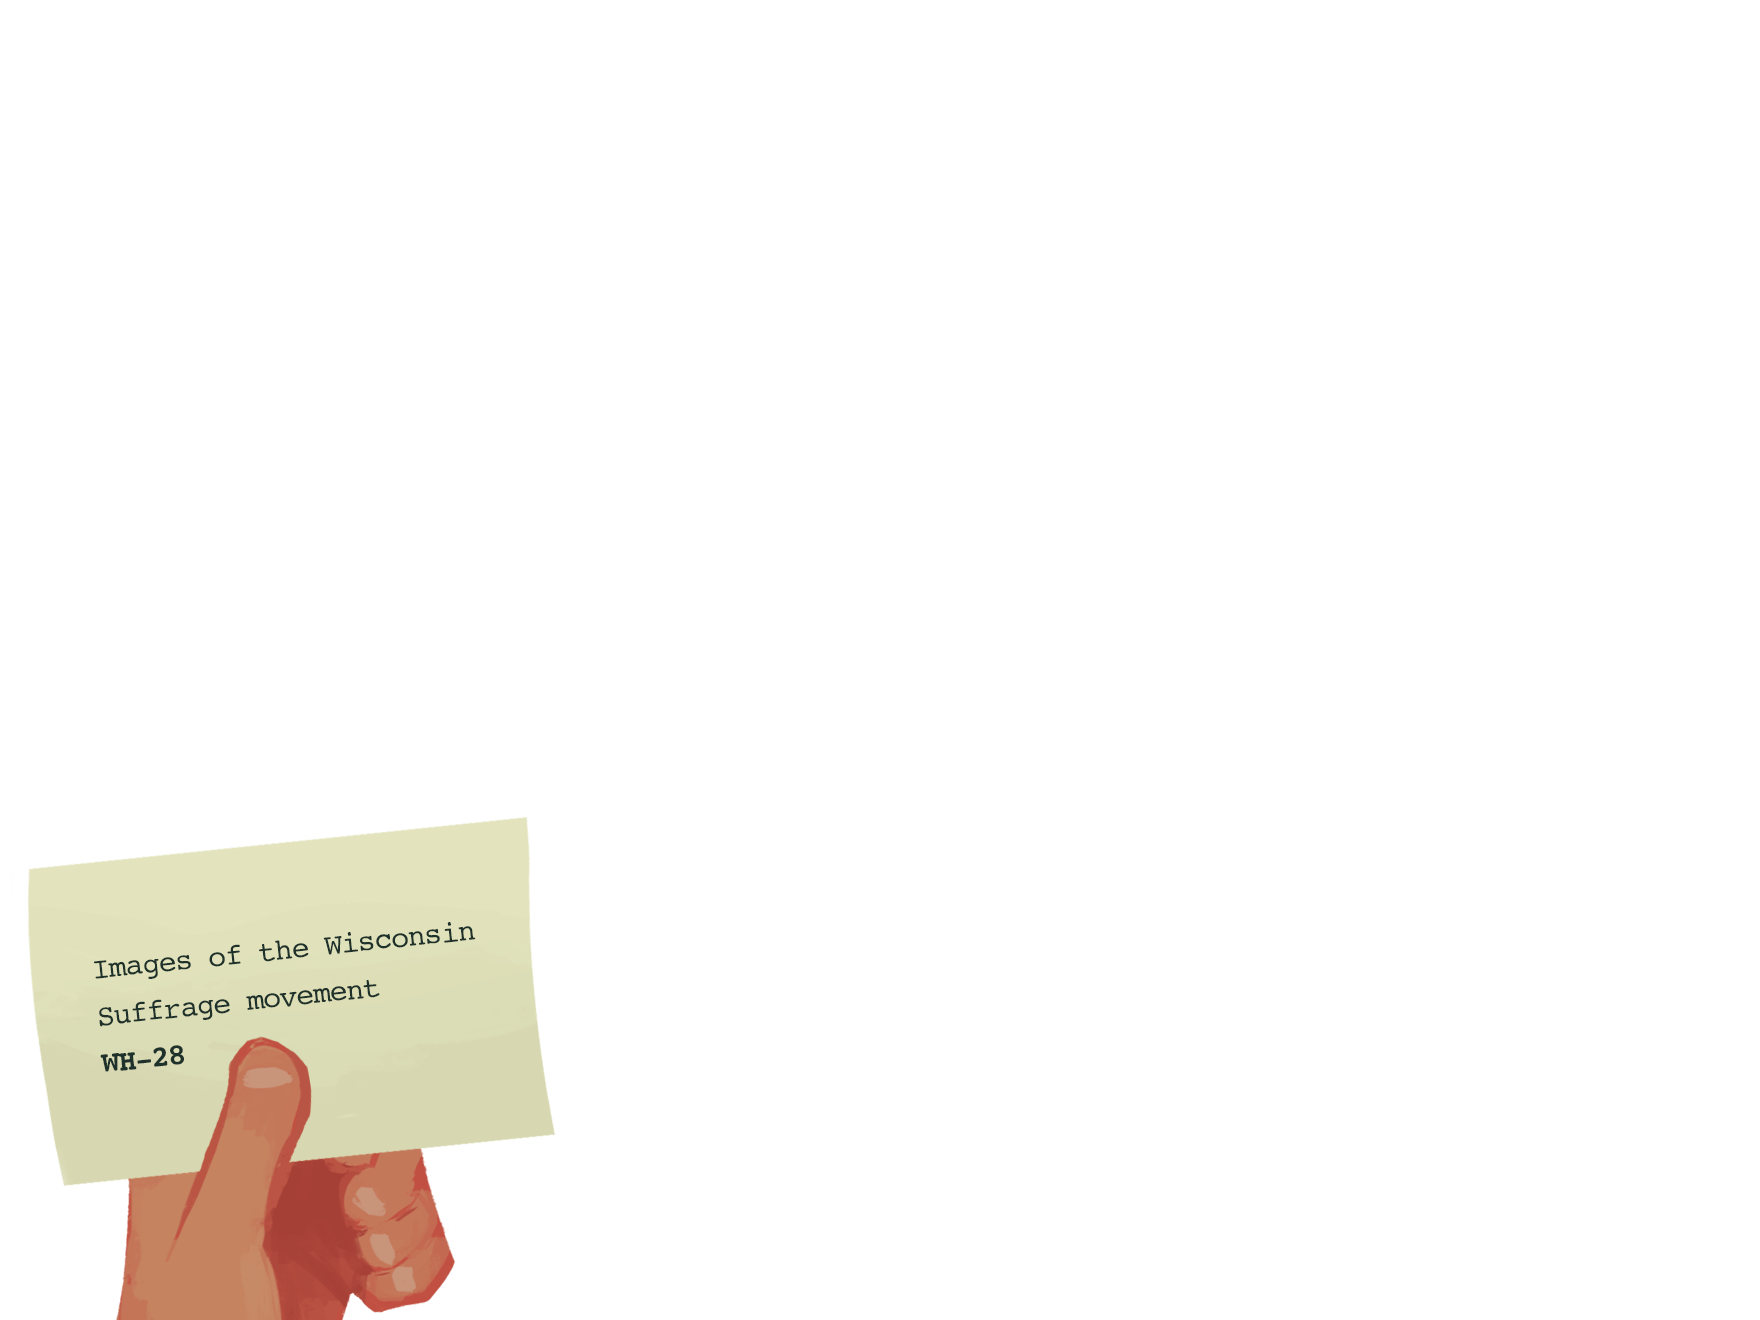
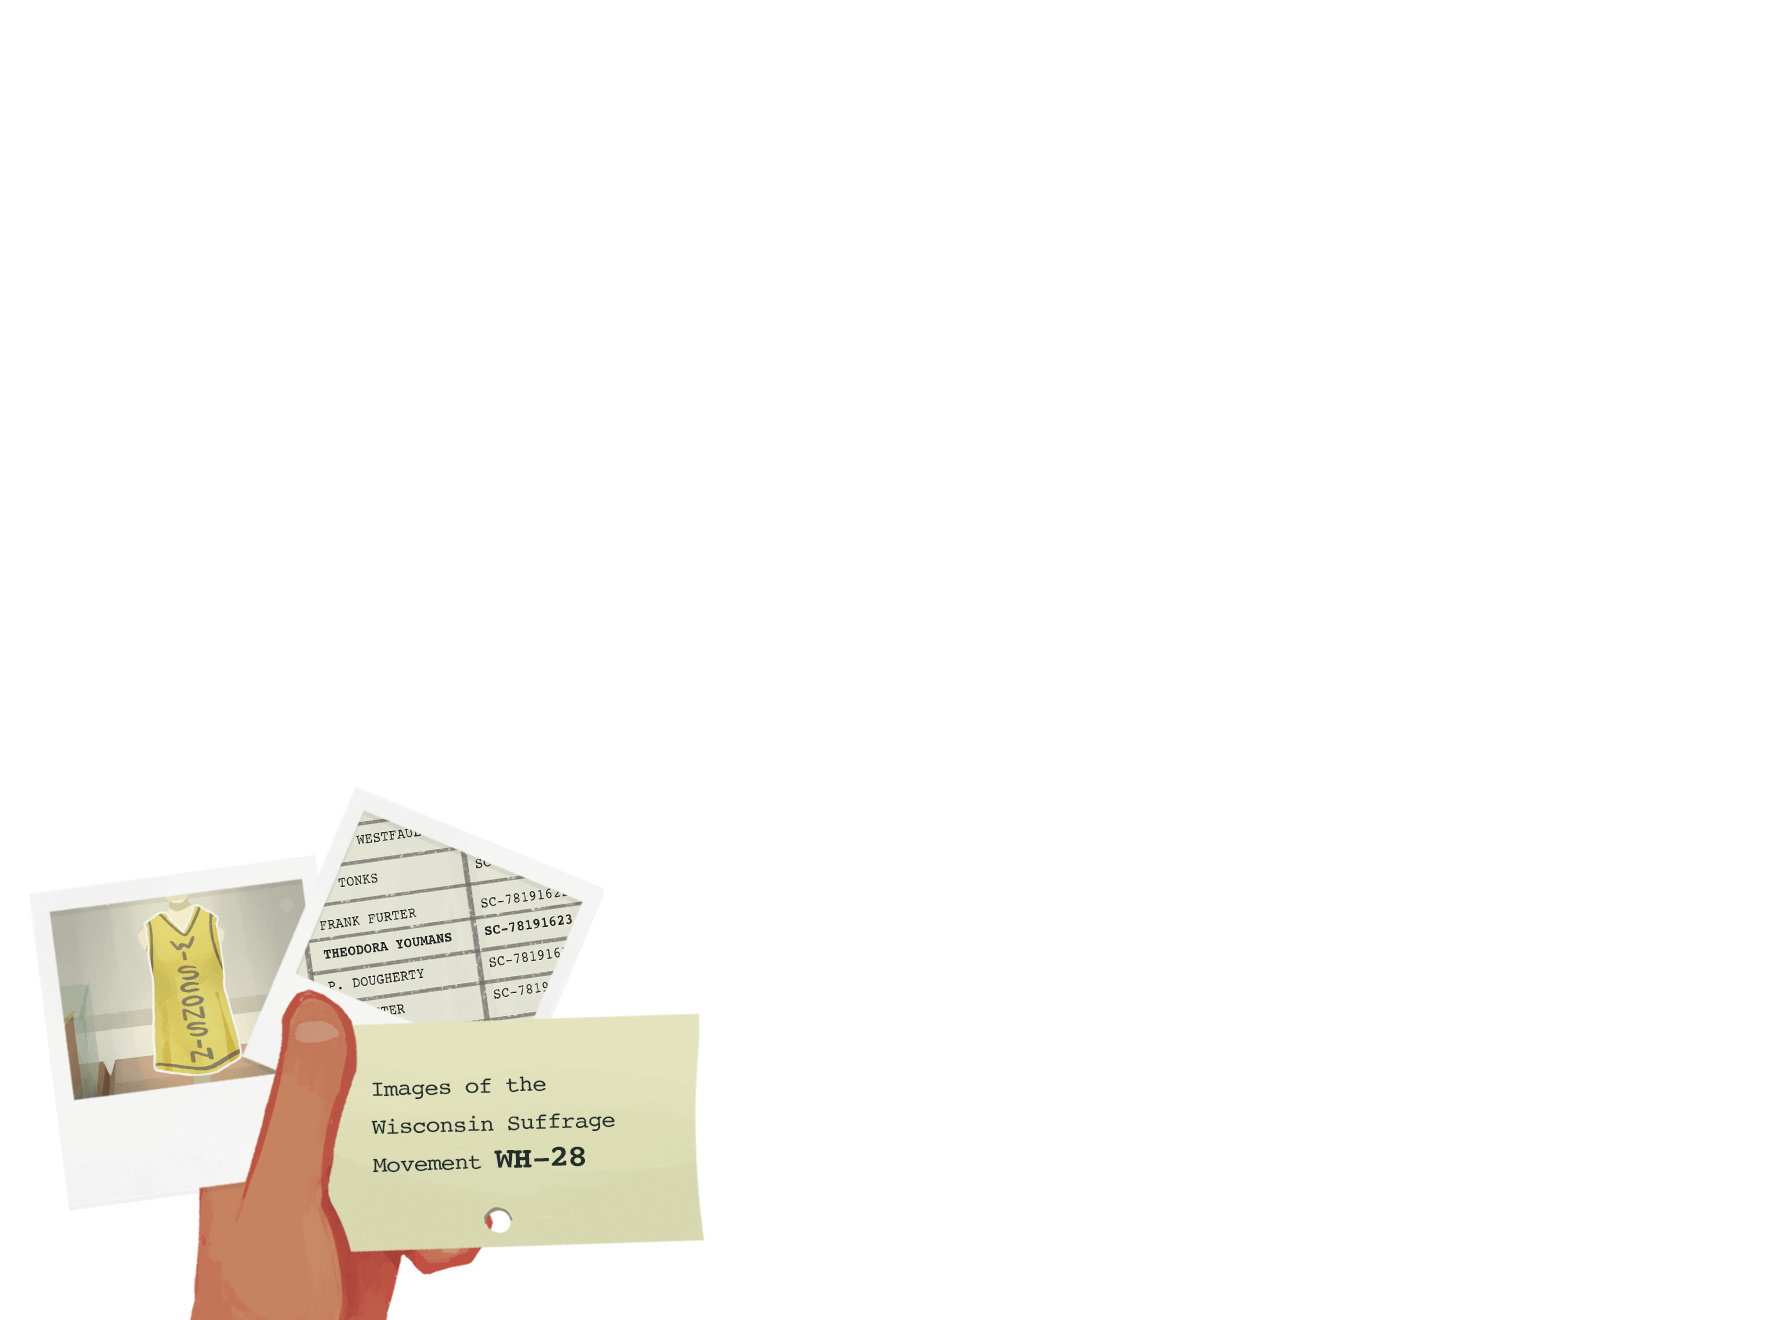
stacks clues fixed, iframe scaling fixed

Changed region(s): [[0.0, 0.6212, 0.4062, 1.0]]

diff --git a/index.html b/index.html
@@ -33,10 +33,20 @@ window.onload = function()
 <body style="width:100%; height:100%; background-color:#444444; position:absolute; top:0px; left:0px;">
 
   <div id="background" style="width:100%; height:100%; background-color:#444444; position:absolute; top:0px; left:0px;">
-    <div id="clickload" scrolling="no" style="width:880px; height:660px; display:block; margin:0px auto; overflow:hidden; border:0px; background-image:url('assets/iframe_img.jpg');"></div>
+    <div id="clickload" scrolling="no" style="background-size: cover; width:880px; height:660px; display:block; margin:0px auto; overflow:hidden; border:0px; background-image:url('assets/iframe_img.jpg');">
+      <span class="playbutton"
+        style="
+          background-image: url(assets/play.png);
+          background-size: cover;
+          width: 300px;
+          height: 95px;
+          margin: 0 auto;
+          display: block;
+          margin-top: 400px;">
+      </span>
+    </div>
     <iframe id="content" scrolling="no" style="display:none; width:880px; height:660px; display:block; margin:0px auto; overflow:hidden; border:0px;"></iframe>
   </div>
 
 </body>
 </html>
-
